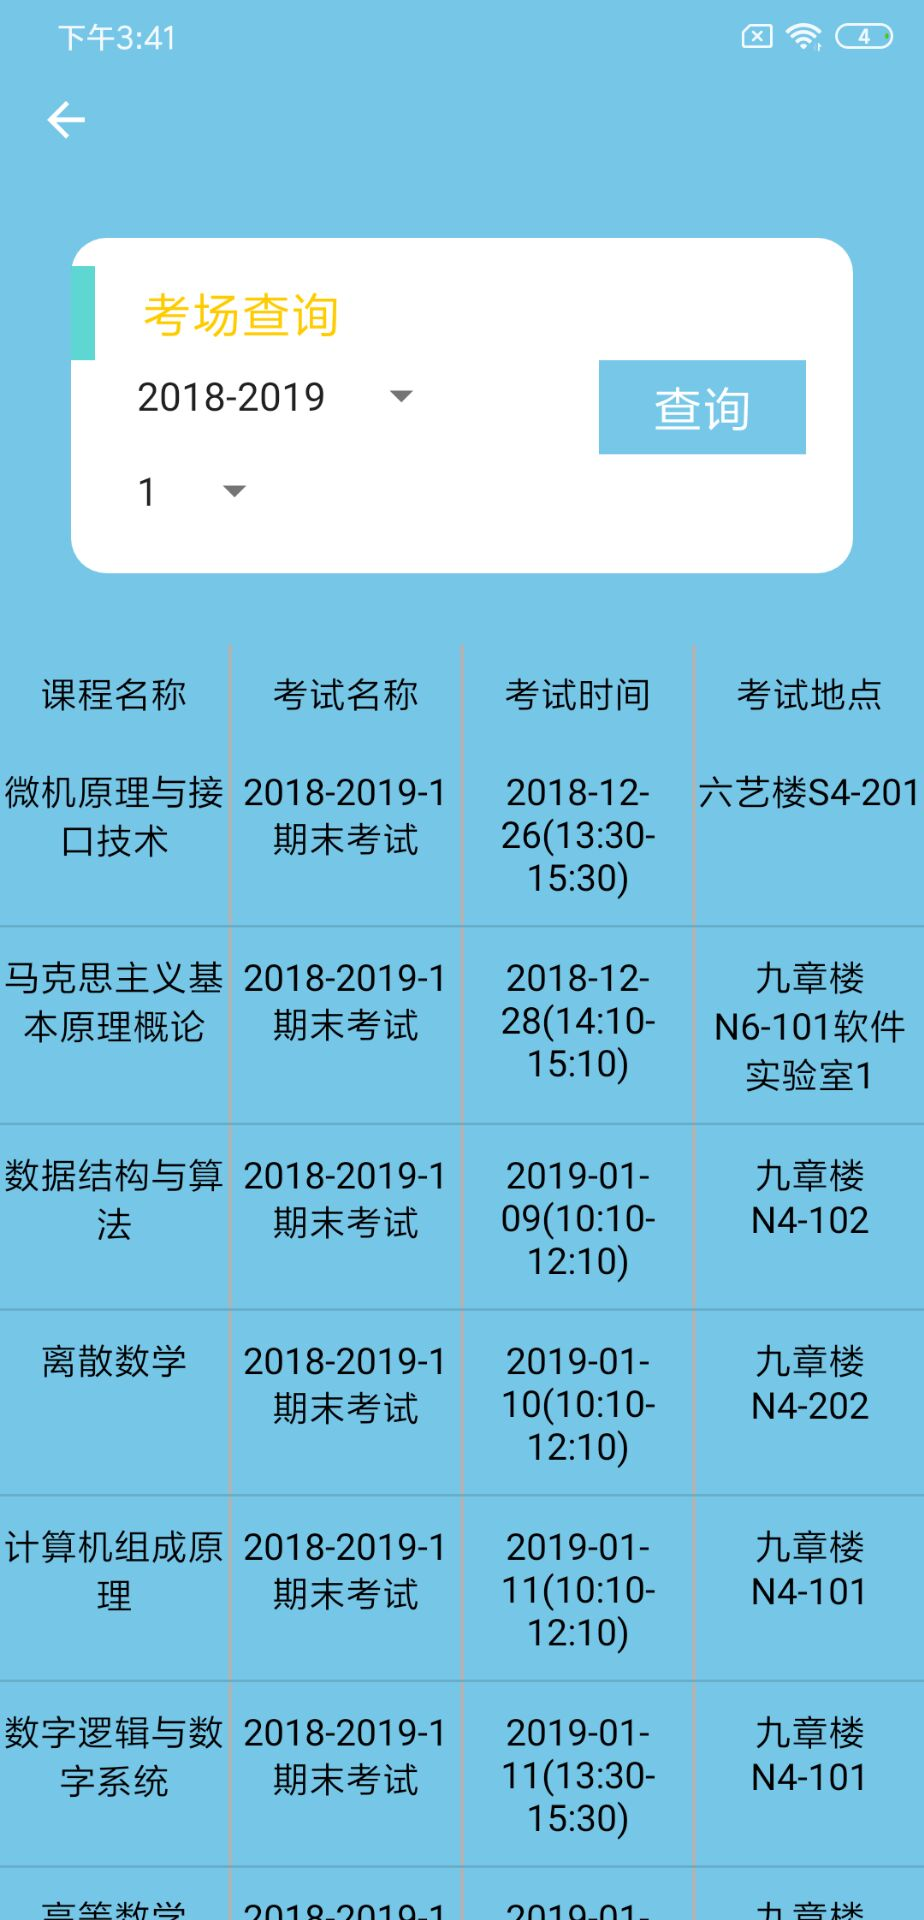
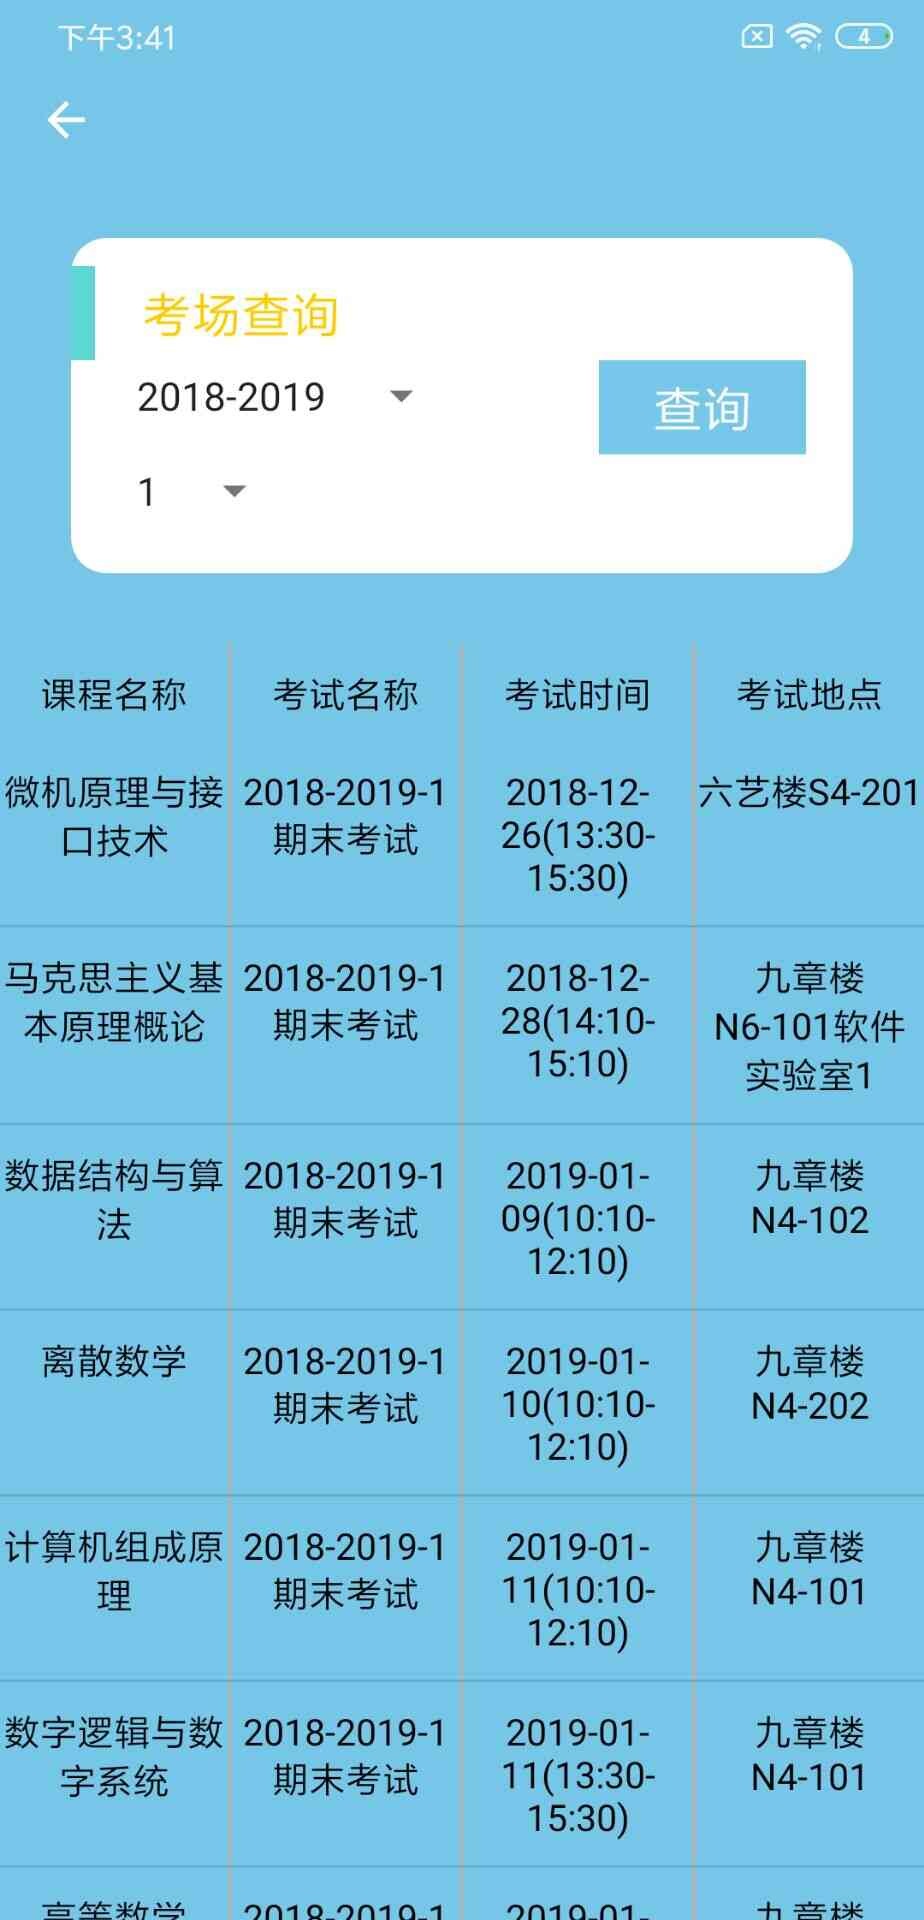
web

diff --git a/index.html b/index.html
@@ -238,9 +238,9 @@
                           </figcaption>
                         </figure>
                       </a>
-                      <a href="img/w.png">
+                      <a href="img/w.jpg">
                         <figure class="effect-honey tm-gallery-item">
-                          <img src="img/w.png" alt="Image" class="img-fluid">
+                          <img src="img/w.jpg" alt="Image" class="img-fluid">
                           <figcaption>
                             <h2><i><span>小部件</span> 界面</i></h2>
                           </figcaption>
@@ -482,7 +482,7 @@
 
 </script>
 
-
+ 
     <script src="js/jquery-1.9.1.min.js"></script>     
     <script src="slick/slick.min.js"></script>
     <script src="magnific-popup/jquery.magnific-popup.min.js"></script>
